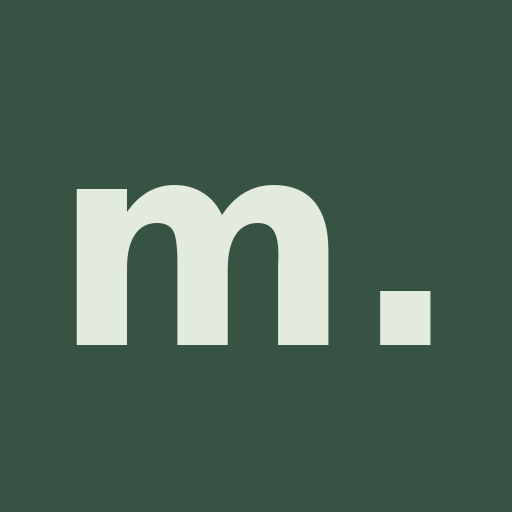
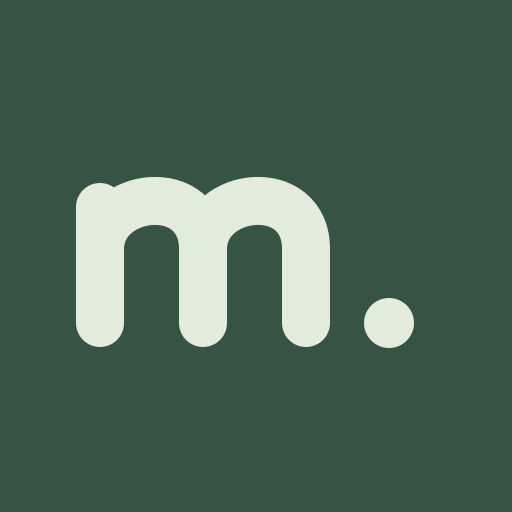
Add files via upload

diff --git a/index.html b/index.html
@@ -1,4 +1,4 @@
-<!doctype html><html lang="pt-BR"><meta charset="utf-8"><meta name="viewport" content="width=device-width,initial-scale=1,viewport-fit=cover"><meta name="theme-color" content="#365344"><meta name="apple-mobile-web-app-capable" content="yes"><link rel="apple-touch-icon" href="icon-192.png"><link rel="manifest" href="manifest.json"><title>Matcha</title><style>@import url('https://fonts.googleapis.com/css2?family=DM+Sans:wght@400;500;600;700&family=Nunito:wght@600;700;800&display=swap');
+<!doctype html><html lang="pt-BR"><meta charset="utf-8"><meta name="viewport" content="width=device-width,initial-scale=1,viewport-fit=cover"><meta name="theme-color" content="#365344"><meta name="apple-mobile-web-app-capable" content="yes"><link rel="apple-touch-icon" sizes="180x180" href="apple-touch-icon.png"><link rel="manifest" href="manifest.json"><title>matcha.</title><meta name="apple-mobile-web-app-title" content="Matcha"><meta name="application-name" content="Matcha"><link rel="icon" type="image/png" sizes="64x64" href="favicon.png"><style>@import url('https://fonts.googleapis.com/css2?family=DM+Sans:wght@400;500;600;700&family=Nunito:wght@600;700;800&display=swap');
 
 *{box-sizing:border-box}body{margin:0;background:#faf8f3;color:#263f32;font:600 16px system-ui,sans-serif}header,main{max-width:850px;margin:auto;padding:20px}header{display:flex;justify-content:space-between;align-items:center}h1{font-size:32px;margin:0;letter-spacing:-2px}h2{font-size:25px;margin:8px 0 16px}h3{margin:0 0 12px}small,p{font-weight:500}small{color:#627466}main{padding-bottom:110px}.card{background:white;border:1px solid #e0e5da;border-radius:22px;padding:20px;margin:12px 0}.hero{background:#365344;color:white;border:0}.hero small{color:#dce7d5}.grid{display:grid;grid-template-columns:repeat(2,minmax(0,1fr));gap:12px}.grid .card{margin:0;background:#e2ebdb}.big{font-size:32px;font-weight:800}button,input,select,textarea{font:inherit;border-radius:12px;padding:12px;border:1px solid #cdd8c9;max-width:100%}input,select,textarea{width:100%;background:#fff;color:#263f32;margin:5px 0 10px}button{background:#365344;color:white;border:0;cursor:pointer}button.light{background:#e2ebdb;color:#365344}button.danger{background:#f3e4df;color:#8a453b}button:active{opacity:.75}nav{position:fixed;bottom:0;left:0;right:0;background:#fff;border-top:1px solid #dae2d5;display:flex;justify-content:center;padding:8px 3px max(8px,env(safe-area-inset-bottom));z-index:10}nav button{background:white;color:#66776a;font-size:11px;flex:1;max-width:140px;padding:8px 2px}nav b{display:block;font-size:23px}nav .active{background:#e2ebdb;color:#365344}.line{display:flex;justify-content:space-between;align-items:center;gap:8px;padding:12px 0;border-bottom:1px solid #e9ece6}.line:last-child{border:0}.line input[type=checkbox]{width:23px;height:23px;accent-color:#365344;margin:0}.bar{height:10px;border-radius:10px;background:#cbd9c5;overflow:hidden;margin:12px 0}.bar i{display:block;height:100%;background:#8eae80;border-radius:10px}.muted{color:#647568}.row{display:flex;gap:8px;flex-wrap:wrap}.row>*{flex:1;min-width:90px}label{font-size:13px}details summary{cursor:pointer;font-weight:800} .pill{background:#e8d8c4;padding:6px 10px;border-radius:20px;font-size:12px;color:#4b5242}.day{display:inline-block;padding:8px;margin:3px;border-radius:12px;background:#e2ebdb}.done{text-decoration:line-through;opacity:.6}img.photo{width:100%;max-height:260px;object-fit:contain;border-radius:12px}svg{max-width:100%}
 header,main{max-width:none;margin:0;padding:24px 32px}main{padding-bottom:110px}.week{display:grid;grid-template-columns:repeat(7,minmax(0,1fr));gap:6px;margin:12px 0 20px}.week button{background:#e2ebdb;color:#365344;padding:10px 2px;min-width:0;font-size:12px}.week button strong{display:block;font-size:20px}.week button.active{background:#365344;color:white}.weekhead{display:flex;align-items:center;justify-content:space-between;gap:8px}.weekhead button{padding:8px 14px}.weekhead small{text-align:center}.sectiongrid{display:grid;gap:16px}.hero{min-height:150px}.grid .card{min-width:0}.big{overflow-wrap:anywhere}.day input{accent-color:#365344}.planrow{white-space:pre-wrap;overflow-wrap:anywhere} @media(min-width:850px){body{padding-left:235px}header{padding:30px 40px 10px}main{padding:20px 40px 40px}nav{top:0;bottom:0;right:auto;width:235px;flex-direction:column;justify-content:flex-start;gap:12px;padding:35px 16px;background:#365344;border:0}nav:before{content:'matcha.';color:white;font-size:32px;font-weight:850;padding:0 12px 28px}nav button{flex:none;max-width:none;text-align:left;color:#e2ebdb;background:transparent;font-size:16px;padding:14px;display:flex;align-items:center;gap:12px}nav b{font-size:24px}nav .active{background:#e2ebdb;color:#365344}.sectiongrid{grid-template-columns:repeat(2,minmax(0,1fr));align-items:start}.sectiongrid>.card{margin:0}.week button{font-size:15px}.week button strong{font-size:24px}}@media(max-width:849px){header,main{padding:16px}main{padding-bottom:110px}nav button{max-width:none}.grid .big{font-size:25px}.card{padding:16px}.week button{font-size:11px}.week button strong{font-size:17px}}
@@ -12,6 +12,9 @@ header,main{max-width:none;margin:0;padding:24px 32px}main{padding-bottom:110px}
 .v10top{display:grid;grid-template-columns:repeat(auto-fit,minmax(220px,1fr));gap:14px;margin:14px 0}.v10top .card{margin:0}.waterbox{display:flex;align-items:center;gap:18px;flex-wrap:wrap}.waterbox svg{width:105px;flex-shrink:0}.waterbox>div{flex:1;min-width:120px}.quickwater{display:grid;grid-template-columns:repeat(3,minmax(0,1fr));gap:8px;margin:12px 0}.quickwater button{padding:12px 4px}.goalcard{background:#e2ebdc;padding:16px;border-radius:15px;margin:12px 0}.v10actions{display:flex;gap:10px;flex-wrap:wrap}.v10actions button{flex:1}.v10icon{width:23px;height:23px;display:block;margin:auto auto 4px;fill:none;stroke:currentColor;stroke-width:1.8;stroke-linecap:round;stroke-linejoin:round}.card{overflow-wrap:anywhere}.card button{margin-top:5px}.card details{margin-top:12px}.card p{line-height:1.55}.card .line{gap:12px}.v10note{font-size:13px;color:#627466}.hero .v10note{color:#dce7d5}@media(max-width:600px){.grid{gap:12px}.card{padding:16px}.v10top{grid-template-columns:1fr}.waterbox{gap:12px}.trainhead{gap:12px;flex-wrap:wrap}.big{font-size:27px}main{padding-left:14px!important;padding-right:14px!important}nav button{font-size:10px!important}}
 
 body,input,select,textarea,button{font-family:'DM Sans',system-ui,sans-serif} h1,h2,h3,.big,nav:before{font-family:'Nunito',ui-rounded,system-ui,sans-serif;font-weight:800} button{font-weight:600} .matchhome{display:grid;gap:12px}.matchhome .card{margin:0;padding:15px;min-height:0}.matchhome h2,.matchhome h3{margin:0 0 6px}.matchhome p{margin:5px 0}.matchwater{display:flex;align-items:center;gap:14px;background:#e2ebdc!important}.matchwater svg{width:66px;height:105px;flex:none}.matchwater .waterinfo{flex:1;min-width:0}.matchwater .quickwater{margin:7px 0 0}.matchwater .quickwater button{font-size:12px;padding:9px 3px;margin:0}.matchtrain{background:#365344!important;color:#fff}.matchtrain small{color:#dce7d5}.matchtrain button{background:#e2ebdc;color:#365344;width:100%}.matchshort{display:grid;grid-template-columns:repeat(3,1fr);gap:12px}.matchshort button{background:transparent;color:#365344;padding:2px;display:grid;justify-items:center;gap:5px;font-size:12px}.matchshort i{display:grid;place-items:center;width:46px;height:46px;border-radius:50%;background:#e2ebdc}.matchshort svg,.search12 svg{width:23px;height:23px;fill:none;stroke:currentColor;stroke-width:1.8;stroke-linecap:round;stroke-linejoin:round}.matchsummary{display:grid;grid-template-columns:1fr 1fr;gap:14px;background:#e2ebdc!important}.matchsummary>div+div{border-left:1px solid #c4d2bd;padding-left:14px}.matchsummary .big{font-size:25px}.searchrow12{display:flex;align-items:center;gap:8px}.searchrow12 input{flex:1;min-width:0;margin:0}.search12{flex:none;width:44px;height:44px;padding:9px;margin:0!important;display:grid;place-items:center}.matchhome details{margin:4px 0 0}.matchhome details summary{font-size:12px;font-weight:600}.matchsub{display:flex;align-items:center;justify-content:space-between;gap:10px;margin-bottom:12px}.matchsub h2{margin:0}.card label{display:block;margin:10px 0}.card input,.card select,.card textarea{margin-top:5px}.card .row{gap:12px}.card button+button{margin-left:4px}.matchshort button+button{margin-left:0}@media(min-width:850px){.matchhome{grid-template-columns:1fr 1fr;gap:20px}.matchhome .matchdate,.matchhome .matchshort{grid-column:1/-1}.matchhome .matchwater,.matchhome .matchtrain{padding:24px}.matchhome .matchsummary{grid-column:1/-1}.matchwater svg{width:100px;height:150px}.matchshort{max-width:520px}.matchhome .big{font-size:32px}}@media(max-width:849px){body:not(.locked)>header{padding-bottom:5px}body:not(.locked)>header h1{font-size:29px;margin:0}body:not(.locked)>header small{display:none}main:has(.matchhome){padding-top:6px}.matchhome .matchdate{margin:0;font-size:12px}.matchhome .matchtrain h2{font-size:21px}.matchhome .matchtrain button{padding:9px}.matchhome .matchsummary .big{font-size:23px}nav{gap:3px}nav button{min-height:48px}#syncStatus{top:calc(3px + env(safe-area-inset-top));font-size:10px}} 
+
+.player17{max-width:620px;margin:0 auto;display:grid;gap:13px;color:#365344;font-family:'DM Sans',system-ui,sans-serif;letter-spacing:.2px}.player17 h2{font-family:Nunito,system-ui,sans-serif;margin:0;line-height:1.25}.p17heading,.p17top{display:flex;align-items:center;justify-content:space-between;gap:12px}.p17heading small{letter-spacing:1.3px;font-size:11px}.p17icon{display:grid;place-items:center;width:44px;height:44px;padding:10px!important}.p17icon svg,.p17sets svg,.p17controls svg{width:24px;height:24px}.p17more{position:relative}.p17more summary{list-style:none;font-size:25px;padding:5px 12px}.p17more[open]{z-index:5}.p17more button{display:block;margin:5px 0}.p17top span{background:#e2ebdc;padding:8px 13px;border-radius:12px;white-space:nowrap}.player17 .bar{margin:0;height:7px}.p17art{background:#e2ebdc;border-radius:24px;padding:15px;text-align:center;min-height:145px;display:grid;place-items:center;gap:6px}.p17art>svg{height:100px}.poses17{display:flex;justify-content:center;width:100%;gap:8px}.poses17 svg{width:45%;height:135px}.p17art small{font-size:10px}.p17name{text-align:center;font-size:25px}.p17stats{display:grid;grid-template-columns:repeat(3,minmax(0,1fr));gap:8px}.p17stats>div{background:#e2ebdc;padding:12px 6px;text-align:center;border-radius:14px;display:grid;gap:4px}.p17stats b{font-family:Nunito,system-ui;font-size:21px;overflow-wrap:anywhere}.p17stats small{font-size:11px}.p17sets{display:flex;justify-content:center;gap:10px;flex-wrap:wrap}.p17sets button{width:44px;height:44px;border-radius:50%;background:#dce8d6;color:#365344;display:grid;place-items:center;padding:0;font-weight:700}.p17sets button.complete{background:#365344;color:#fff}.p17sets button.running{outline:2px solid #80966b;outline-offset:3px}.p17edit{padding:9px 12px;background:#edf2e9;border-radius:12px;font-size:13px}.p17edit summary{font-weight:600}.p17control{background:#365344;border-radius:23px;padding:18px;display:grid;justify-items:center;gap:10px;color:#f8faf5}.p17control small{color:#dce8d6}.p17clock{font:800 32px Nunito,system-ui;letter-spacing:2px;font-variant-numeric:tabular-nums}.p17controls{display:flex;align-items:center;justify-content:center;gap:22px}.p17controls button{background:#587663;width:46px;height:46px;border-radius:50%;display:grid;place-items:center;padding:0;color:#fff}.p17controls button.p17play{width:66px;height:66px;background:#e2ebdc;color:#365344}.p17play svg{width:30px;height:30px}.p17controls button:disabled{opacity:.35}.p17finishset{background:#dce8d6;color:#365344;padding:10px 20px}.p17rest{display:flex;gap:6px;margin:10px 0;flex-wrap:wrap}.p17end,.resume17{width:100%;background:#365344;color:white}.p17result{background:#365344;color:white;padding:20px;border-radius:22px;margin-bottom:15px}.p17result>small{color:#dce8d6}.p17result .p17stats{color:#365344}.p17result h2{margin:8px 0 16px}@media(max-width:480px){.player17{gap:10px}.p17art{padding:10px}.poses17 svg{height:108px}.p17control{padding:14px}.p17stats>div{padding:9px 4px}.p17name{font-size:23px}}
+
 </style><style>.importentry13{margin:12px 0 18px}.import13{max-width:100%;display:grid;gap:14px}.import13 label{min-width:0}.import13 textarea{width:100%;resize:vertical}.importdays13,.importfields13{display:grid;grid-template-columns:repeat(auto-fit,minmax(78px,1fr));gap:8px}.importrow13{display:grid;gap:12px;padding:12px;border-radius:14px;background:#f0f3e9}.importpreview13{max-width:100%;max-height:380px;object-fit:contain;border-radius:12px}.import13 small{line-height:1.5}.import13 .full{margin-top:8px}.import13 .trainhead{gap:10px;flex-wrap:wrap}
 /* 13.1: ritmo tipográfico e espaçamento, sem alterar os registros */
 body{font-weight:500;line-height:1.55;letter-spacing:.012em;-webkit-text-size-adjust:100%;text-size-adjust:100%}
@@ -32,6 +35,20 @@ body{letter-spacing:.022em;line-height:1.55} h1,h2,h3,.big{letter-spacing:.012em
 /* Matcha 16: compact controls and consistent spacing */
 body{letter-spacing:.025em;line-height:1.6} h1,h2,h3{letter-spacing:.018em;line-height:1.3} p,small{overflow-wrap:anywhere} .card{border-radius:20px} .card h3{margin-bottom:12px} .card label{margin:12px 0;line-height:1.5} input,select,textarea,button{font-family:inherit;letter-spacing:.015em} .menu16{position:relative;margin:0;min-width:0} .menu16>summary{list-style:none;cursor:pointer;display:flex;align-items:center;justify-content:center;gap:8px;min-height:44px;padding:8px 14px;border-radius:12px;background:#365344;color:#faf8f3;font-weight:650} .menu16>summary::-webkit-details-marker{display:none}.menu16[open]>summary{margin-bottom:8px}.menu16body{display:grid;gap:8px;padding:12px;background:#f1f5ed;border:1px solid #d5e1cf;border-radius:14px}.menu16body>button{margin:0!important;text-align:left;width:100%;min-height:44px;background:#faf8f3;color:#365344}.menu16.mini16>summary{background:transparent;color:#365344;font-size:24px;min-width:44px;padding:0 10px;line-height:1}.menu16.mini16{align-self:flex-start}.menu16.mini16 .menu16body{min-width:150px}.trainhead{gap:14px;align-items:center;flex-wrap:wrap}.meal-line{padding:14px 0!important;line-height:1.55}.meal-line+.meal-line{border-top:1px solid #cbd8c4}.meal-line .actions,.fichas .trainactions{gap:10px;align-items:center}.meal-line .actions>button,.fichas .trainactions>button{margin:0}.meal-line .menu16body details{margin:0}.edit16grid{display:grid;grid-template-columns:repeat(2,minmax(0,1fr));gap:12px}.edit16grid label{margin:0}.edit16card{max-width:760px;margin:0 auto}.menu16body .danger{color:#80514a}.menu16body>details{margin:0}.menu16body>details>summary{padding:8px}.record16{display:flex;align-items:flex-start;gap:10px;justify-content:space-between}.record16>div:first-child{min-width:0;flex:1}.menu16body .card{padding:12px;margin:0}.menu16body .v10note{line-height:1.5}.menu16body button:disabled{opacity:.5}.card .menu16{margin-top:8px}.menu16body>button:hover{background:#dce8d5}.matchhome .matchshort button{letter-spacing:.025em}.nutri .meal-grid{gap:18px}.draftrow,.selected-food{margin:14px 0;padding:14px!important}.editor-grid{gap:18px}.weekblock15{padding:16px!important}.menu16body .light{border:1px solid #d4dfce}.menu16body button{white-space:normal}.matchhome .quickwater button{padding:8px 5px}.menu16 summary:focus-visible{outline:2px solid #80966b;outline-offset:2px}
 @media(max-width:849px){.trainhead{gap:10px}.trainhead h2{font-size:23px;flex:1}.trainhead .menu16>summary{font-size:13px;padding:8px 10px}.card{padding:16px}.menu16body{padding:10px}.edit16grid{gap:10px}.meal-line .actions{flex-wrap:wrap}.matchhome .card{padding:13px}.matchhome .matchtrain{padding:16px} .menu16body button{font-size:14px}.record16 .mini16{flex-shrink:0}}
+
+/* Matcha 18.2: shell mobile, barra fora da área de rolagem */
+@media(max-width:849px){
+ html:has(body:not(.locked)){height:100%;overflow:hidden;overscroll-behavior:none}
+ body:not(.locked){position:fixed;inset:0;display:grid;grid-template-rows:auto minmax(0,1fr) auto;height:100vh;height:100dvh;height:var(--matcha-viewport,100dvh);width:100%;overflow:hidden;overscroll-behavior:none;padding:0!important}
+ body:not(.locked)>header{grid-row:1;min-width:0;background:#faf8f3;padding-top:calc(8px + env(safe-area-inset-top));padding-bottom:8px;z-index:11}
+ body:not(.locked)>main#app{grid-row:2;min-height:0;min-width:0;overflow-y:auto;overflow-x:hidden;overscroll-behavior-y:contain;-webkit-overflow-scrolling:touch;padding-bottom:20px!important;scroll-padding:12px 0 24px}
+ body:not(.locked)>nav#nav{grid-row:3;position:relative;inset:auto;width:100%;height:auto;min-width:0;margin:0;flex-direction:row;align-items:center;padding:6px 4px calc(6px + env(safe-area-inset-bottom));background:#faf8f3;z-index:12;flex-shrink:0}
+ body:not(.locked)>nav#nav button{min-width:0;max-width:none;flex:1;padding:7px 2px;min-height:48px;background:transparent}
+ body:not(.locked)>nav#nav button.active{background:#e2ebdb}
+ body:not(.locked)>#syncStatus{position:absolute;top:auto;bottom:calc(var(--matcha-nav-height,70px) + 6px);right:10px;z-index:13}
+ .timercompact{bottom:8px}
+ body.locked{overflow:auto;position:static;height:auto;display:block}
+}
 </style><body class="locked"><section id="authGate"><div class="card"><small>SEU ESPAÇO DE EQUILÍBRIO</small><h1>matcha.</h1><h2 id="authTitle">Entrar</h2><form id="authForm"><label id="emailLabel">E-mail<input id="authEmail" type="email" autocomplete="email" required></label><label id="passLabel">Senha<input id="authPass" type="password" autocomplete="current-password" minlength="8" required></label><button id="authSubmit" type="submit">Entrar</button></form><button class="light" id="switchAuth" type="button">Criar conta</button><button class="light" id="forgotAuth" type="button">Esqueci minha senha</button><button class="light" id="reloadAuth" type="button" onclick="location.reload()" hidden>Tentar novamente</button><p id="authMsg" role="status" aria-live="polite">Conectando...</p></div></section><div id="syncStatus" role="status"></div><header><div><small>SEU ESPAÇO DE EQUILÍBRIO</small><h1>matcha.</h1></div><button class="light" onclick="go('perfil')" aria-label="Configurações"><svg viewBox="0 0 24 24"><circle cx="12" cy="12" r="3"/><path d="M12 2v3m0 14v3M2 12h3m14 0h3M5 5l2 2m10 10 2 2M5 19l2-2M17 7l2-2"/></svg></button></header><main id="app"></main><nav id="nav"></nav><script src="https://cdn.jsdelivr.net/npm/@supabase/supabase-js@2.49.4/dist/umd/supabase.js"></script><script>
 const $=id=>document.getElementById(id),today=()=>new Date().toLocaleDateString('sv-SE'),esc=s=>String(s??'').replace(/[&<>"']/g,c=>({'&':'&amp;','<':'&lt;','>':'&gt;','"':'&quot;',"'":'&#39;'}[c]));const blankState=()=>({meals:[],plans:[],workouts:[],logs:{},water:{},weights:[],photos:[],goals:{kcal:0,protein:0,water:2000},name:''});let S=blankState();let page='inicio',date=today(),selected='',timer=null;const days=['Domingo','Segunda','Terça','Quarta','Quinta','Sexta','Sábado'];function save(){cloudSave()}function go(p){page=p;if(p==='inicio'){date=today();selected=''}render()}function update(){save();render()}function val(id){return $(id).value}function num(id){return Number(val(id))||0}function uid(){return Date.now().toString(36)+Math.random().toString(36).slice(2,7)}function totals(){return S.meals.filter(x=>x.date===date).reduce((a,x)=>({kcal:a.kcal+x.kcal,p:a.p+x.p,c:a.c+x.c,g:a.g+x.g}),{kcal:0,p:0,c:0,g:0})}function bar(n,d){return `<div class="bar"><i style="width:${d?Math.min(100,n/d*100):0}%"></i></div>`}function dateField(){return `<input aria-label="Data" type="date" value="${date}" onchange="date=this.value||today();selected='';render()">`}function shiftDate(dt,n){let d=new Date(dt+'T12:00:00');d.setDate(d.getDate()+n);return d.toLocaleDateString('sv-SE')}function chooseDay(dt){date=dt;selected='';render()}function week(){let start=shiftDate(date,-((new Date(date+'T12:00:00').getDay()+6)%7));let end=shiftDate(start,6);return `<div class="weekhead"><button class="light" onclick="chooseDay(shiftDate(date,-7))">‹</button><small>${start.split('-').reverse().join('/')} a ${end.split('-').reverse().join('/')}</small><button class="light" onclick="chooseDay(shiftDate(date,7))">›</button></div><div class="week">${Array.from({length:7},(_,i)=>{let dt=shiftDate(start,i);return `<button class="${dt===date?'active':''}" onclick="chooseDay('${dt}')">${['Seg','Ter','Qua','Qui','Sex','Sáb','Dom'][i]}<strong>${Number(dt.slice(-2))}</strong>${dt===today()?'Hoje':''}</button>`}).join('')}</div>`}function workout(){return S.workouts.find(w=>w.id===selected)||S.workouts.find(w=>w.days.includes(new Date(date+'T12:00:00').getDay()))}function key(w){return date+'_'+w.id}function log(w){return S.logs[key(w)]||{checks:{},loads:{},finished:false}}function render(){let t=totals(),w=workout(),water=S.water[date]||0; $('nav').innerHTML=[['inicio','⌂','Início'],['nutricao','♧','Nutrição'],['treino','▤','Treino'],['cardio','♥','Cardio'],['evolucao','↗','Evolução']].map(([p,i,n])=>`<button class="${page===p?'active':''}" onclick="go('${p}')"><b>${i}</b>${n}</button>`).join('');let h='';if(page==='inicio')h=`<small>${new Date(date+'T12:00:00').toLocaleDateString('pt-BR',{weekday:'long',day:'numeric',month:'long'})}</small><h2>Olá${S.name?', '+esc(S.name):''}!</h2><div class="card hero"><small>RESUMO NUTRICIONAL</small><div class="big">${Math.round(t.kcal)} <small>kcal</small></div>${bar(t.kcal,S.goals.kcal)}<small>${S.goals.kcal?'Meta: '+S.goals.kcal+' kcal':'Meta opcional nas configurações'}</small><p>Proteínas ${t.p.toFixed(1)}g · Carboidratos ${t.c.toFixed(1)}g · Gorduras ${t.g.toFixed(1)}g</p><button class="light" onclick="go('nutricao');nopen()">Registrar refeição</button></div><div class="grid"><div class="card"><small>HIDRATAÇÃO</small><div class="big">${water} ml</div>${bar(water,S.goals.water)}<button onclick="addWater(250)">+ 250 ml</button><button class="light" onclick="addWater(-250)">−</button></div><div class="card"><small>TREINO DO DIA</small><h3>${w?esc(w.name):'Sem ficha prevista'}</h3><p>${w?(log(w).finished?'Concluído ✓':w.ex.length+' exercícios'):'Cadastre sua rotina'}</p><button onclick="go('treino')">Ver treino</button></div></div><div class="card"><h3>Seu ritmo, sua evolução</h3><p>Registre seus hábitos sem cobrança de perfeição.</p><button class="light" onclick="go('evolucao')">Acompanhar evolução</button></div>`;
 if(page==='nutricao')h=nutritionPage(t);
@@ -240,8 +257,8 @@ function saveGoal14(){let type=val('goaltype14'),target=Number(val('goaltarget14
 function actionGoal14(id,act){let x=goalsArray14().find(g=>g.id===id);if(!x)return;if(act==='pause')x.paused=!x.paused;if(act==='archive'){x.archived=!x.archived;x.paused=false}update()}
 function goalCard14(x){let m=metric14(x),unit=goalTypes10[x.type]||'unidades',fmt=v=>Number(v).toLocaleString('pt-BR',{maximumFractionDigits:1});return `<article class="card"><div class="goal14head"><h3>${esc(x.name||x.type)}</h3><small>${x.archived?'Arquivada':x.paused?'Pausada':period14(x)}</small></div><div class="big">${m.v===null?'—':fmt(m.v)} <small>/ ${fmt(x.target)} ${esc(unit)}</small></div>${m.p===null?'<p class="muted">Registre dados para acompanhar.</p>':bar(m.p,1)+`<small>${m.done?'Objetivo alcançado neste ciclo':Math.round(m.p*100)+'% do objetivo'}${m.partial?' · registro parcial':''}</small>`}${['Peso corporal','Medida da cintura'].includes(x.type)?`<p class="v10note">Referência inicial: ${x.start==null?'não registrada':fmt(x.start)+' '+unit}</p>`:''}${x.type==='Meta personalizada'&&!x.archived?`<label>Progresso manual<input type="number" min="0" step="any" value="${Number(x.manual)||0}" onchange="goalManual10('${esc(x.id)}',this.value)"></label>`:''}<details><summary>Opções da meta</summary><div class="goal14actions"><button class="light" onclick="openGoal14('${esc(x.id)}')">Editar</button>${!x.archived?`<button class="light" onclick="actionGoal14('${esc(x.id)}','pause')">${x.paused?'Retomar':'Pausar'}</button>`:''}<button class="light" onclick="actionGoal14('${esc(x.id)}','archive')">${x.archived?'Restaurar':'Arquivar'}</button></div>${Object.values(x.achievements14||{}).length?`<p>Conquistas registradas: ${Object.values(x.achievements14).length}</p>${Object.values(x.achievements14).slice(-8).reverse().map(a=>`<small>${esc(a.date.split('-').reverse().join('/'))} · ${fmt(a.value)} ${esc(unit)}</small><br>`).join('')}`:''}</details></article>`}
 goals10=function(){let all=goalsArray14(),active=all.filter(x=>!x.archived),arch=all.filter(x=>x.archived),x=all.find(x=>x.id===edit14);return `<p class="muted">Objetivos conectados aos seus registros. Acompanhe seu ritmo, sem cobranças.</p>${form14?`<section class="card goal14form"><h3>${x?'Editar objetivo':'Novo objetivo'}</h3><label>Categoria<select id="goaltype14">${Object.keys(goalTypes10).map(t=>`<option ${x?.type===t?'selected':''}>${esc(t)}</option>`).join('')}</select></label><label>Nome opcional<input id="goalname14" value="${esc(x?.name||'')}"></label><label>Objetivo numérico<input id="goaltarget14" inputmode="decimal" value="${esc(x?.target??'')}"></label><small>Use kg para peso, cm para cintura, ml para água, g para proteína, minutos para cardio e horas para sono. Ao mudar o objetivo, inicia-se uma nova referência.</small><div class="row"><button onclick="saveGoal14()">Salvar meta</button><button class="light" onclick="closeGoal14()">Cancelar</button></div></section>`:`<button onclick="openGoal14()">+ Nova meta</button>`}<div class="goal14grid" style="margin-top:16px">${active.map(goalCard14).join('')||'<p>Nenhuma meta ativa. Crie seu primeiro objetivo.</p>'}</div>${arch.length?`<details class="card"><summary>Metas arquivadas (${arch.length})</summary><div class="goal14grid">${arch.map(goalCard14).join('')}</div></details>`:''}`};
-let renderBase14=render;render=function(){renderBase14();document.body.dataset.page=page;if(page==='perfil'){let b=[...$('app').querySelectorAll('button')].find(b=>b.textContent.includes('Verificar atualização'));if(b)b.onclick=refresh14;$('app').insertAdjacentHTML('afterbegin','<p class="version14">MATCHA · VERSÃO 16.0</p>')} };
-let goBase14=go;go=function(p){if(p!=='metas12'){form14=false;edit14=null}goBase14(p);window.scrollTo(0,0)};
+let renderBase14=render;render=function(){renderBase14();document.body.dataset.page=page;if(page==='perfil'){let b=[...$('app').querySelectorAll('button')].find(b=>b.textContent.includes('Verificar atualização'));if(b)b.onclick=refresh14;$('app').insertAdjacentHTML('afterbegin','<p class="version14">MATCHA · VERSÃO 18.2</p>')} };
+let goBase14=go;go=function(p){if(p!=='metas12'){form14=false;edit14=null}goBase14(p);window.scrollTo(0,0);document.getElementById("app")?.scrollTo(0,0)};
 async function refresh14(){if(writing||pending){alert('Aguarde a sincronização antes de atualizar.');return}try{let r=await navigator.serviceWorker?.getRegistration();await r?.update();}catch{}location.reload()}
 let ctrl14=false;if('serviceWorker' in navigator){navigator.serviceWorker.addEventListener('controllerchange',()=>{if(ctrl14)return;ctrl14=true;if(!writing&&!pending)location.reload();else statusText('Atualização disponível · abra Configurações após sincronizar')})}
 
@@ -279,6 +296,44 @@ if(page==='cardio'){for(let line of app.querySelectorAll('.line')){let b=line.qu
 if(page==='evolucao'){for(let line of app.querySelectorAll('.line')){let b=line.querySelector('button.danger');if(b)actionMenu16(line,[b])}let w=app.querySelector('.compactevo');if(w){let records=[...w.children].filter(d=>['Peso e medidas','Fotos corporais'].includes(d.querySelector('summary')?.textContent));if(records.length){let d=menu16('Novo registro',records);w.prepend(d)}}}
 if(page==='perfil'){let card=[...app.querySelectorAll('.card')].find(c=>c.querySelector('h3')?.textContent==='Seus dados');if(card){let b=[...card.querySelectorAll('button')];let groups=[['Sincronização e atualização',b.filter(x=>/Sincronizar|Verificar/.test(x.textContent))],['Backup e importação',b.filter(x=>/backup|Importar/i.test(x.textContent))],['Conta',b.filter(x=>/Sair/.test(x.textContent))]];for(let [n,bs] of groups)if(bs.length){let d=menu16(n,bs);card.append(d);if(n==='Backup e importação'){let file=card.querySelector('input[type=file]');if(file){let l=document.createElement('label');l.textContent='Restaurar backup (substitui registros atuais)';l.append(file);d.querySelector('.menu16body').append(l);for(let p of card.querySelectorAll(':scope > p'))if(p.textContent.startsWith('Restaurar backup'))p.remove()}}}}}
 };
+
+// Matcha 17 — session player
+if(!exerciseCatalog['Glúteos e posteriores'].includes('Levantamento terra sumô'))exerciseCatalog['Glúteos e posteriores'].push('Levantamento terra sumô');
+const p17={play:'<path d="M8 5v14l12-7z" fill="currentColor" stroke="none"/>',pause:'<path d="M9 5v14M15 5v14" stroke-width="4"/>',prev:'<path d="M6 5v14M19 5 9 12l10 7z"/>',next:'<path d="M18 5v14M5 5l10 7-10 7z"/>',reset:'<path d="M4 11a8 8 0 1 1 2 6M4 4v7h7"/>',check:'<path d="m5 12 4 4L19 6"/>',back:'<path d="m15 5-7 7 7 7"/>'};
+function glyph17(k){return `<svg viewBox="0 0 24 24" fill="none" stroke="currentColor" stroke-width="2" stroke-linecap="round" stroke-linejoin="round" aria-hidden="true">${p17[k]}</svg>`}
+function art17(name){
+let n=norm13(name),kind=/sumo/.test(n)?'sumo':/bulgar/.test(n)?'split':/agach/.test(n)?'squat':/stiff|terra romeno|levantamento terra/.test(n)?'hinge':/elevacao pelvica/.test(n)?'hip':/rosca direta|rosca martelo/.test(n)?'curl':/elevacao lateral/.test(n)?'lateral':null;
+if(!kind)return '<div class="noart18">'+icon12('dumbbell')+'<small>Ilustração específica ainda indisponível</small></div>';
+// joints: shoulder, hip, knee, ankle, elbow, hand; paired poses drawn as flat human figures.
+let poses={squat:[[80,49,80,93,82,130,82,164,58,75,55,53],[87,65,64,111,105,122,87,164,65,90,62,68]],sumo:[[80,70,80,111,122,128,139,164,86,108,86,148],[80,43,80,91,119,126,139,164,86,80,86,108]],split:[[84,48,83,91,116,125,117,164,70,85,70,113],[84,77,83,118,118,124,117,164,70,113,70,143]],hinge:[[80,48,80,91,82,129,82,164,91,79,91,110],[130,85,68,100,82,131,82,164,132,112,132,150]],hip:[[48,105,90,133,132,111,145,164,78,122,91,133],[48,105,94,106,132,111,145,164,78,99,94,106]],curl:[[80,48,80,91,82,129,82,164,86,90,86,124],[80,48,80,91,82,129,82,164,86,90,111,64]],lateral:[[80,48,80,91,82,129,82,164,96,84,99,119],[80,48,80,91,82,129,82,164,116,51,151,51]]};
+function pose(v){let [x,y,h,j,k,l,f,g,e,b,w,z]=v;let dx=h-x,dy=j-y,len=Math.hypot(dx,dy)||1,px=-dy/len,py=dx/len;let poly=(a,c,r)=>`${a+px*r},${c+py*r} ${a-px*r},${c-py*r}`;let torso=`${poly(x,y,13)} ${h-px*12},${j-py*12} ${h+px*12},${j+py*12}`;let line=(d,c,width)=>`<path d="${d}" stroke="${c}" stroke-width="${width}" fill="none" stroke-linejoin="round" stroke-linecap="round"/>`;let leg=(K,L,F,G,c)=>line(`M${h} ${j} Q${K} ${L-10} ${K} ${L} L${F} ${G}`,c,17)+line(`M${F-3} ${G+3}h17`,'#f6f3e9',10)+line(`M${F-5} ${G+8}h22`,'#365344',2);let back=kind==='sumo'?leg(160-k,l,160-f,g,'#78936f'):kind==='split'?leg(51,133,30,113,'#78936f'):leg(k-8,l,f-9,g,'#78936f');let barY=kind==='squat'?y+3:z;let equipment=['squat','sumo','hinge','hip'].includes(kind)?`<g stroke="#365344" stroke-width="2"><path d="M${(kind==='squat'?x:w)-41} ${barY}h82" stroke-width="4"/><rect x="${(kind==='squat'?x:w)-40}" y="${barY-13}" width="12" height="26" rx="4" fill="#526a50"/><rect x="${(kind==='squat'?x:w)+28}" y="${barY-13}" width="12" height="26" rx="4" fill="#526a50"/></g>`:`<rect x="${w-10}" y="${z-5}" width="20" height="10" rx="4" fill="#365344"/>`;return `<svg viewBox="0 0 180 184" role="img" aria-label="Posição ilustrativa"><path d="M12 174H168" stroke="#d5dfce" stroke-width="2"/>${kind==='split'||kind==='hip'?'<rect x="15" y="106" width="45" height="8" rx="3" fill="#a8b99d"/><path d="M20 114v56m35-56v56" stroke="#80966b" stroke-width="3"/>':''}${back}${leg(k,l,f,g,'#526e52')}<polygon points="${torso}" fill="#a6bb91" stroke="#365344" stroke-width="1.5"/><ellipse cx="${h}" cy="${j}" rx="13" ry="10" fill="#526e52"/>${line(`M${x} ${y+4} L${e} ${b} L${w} ${z}`,'#b99d82',10)}<circle cx="${x}" cy="${y-18}" r="12" fill="#b99d82" stroke="#665d4d" stroke-width="1"/><path d="M${x-11} ${y-18}q-3-17 12-14q14 1 12 15l-6-8q-6 7-18 7" fill="#464e40"/><circle cx="${x-12}" cy="${y-30}" r="6" fill="#464e40"/>${equipment}</svg>`}return `<div class="poses17">${poses[kind].map(pose).join('')}</div><small>Início e final · ilustração de referência</small>`}
+function weight18(i,v,commit=false){let e=session?.ex[session.idx],x=e?.sets[i];if(!x||x.done)return;let n=Number(v);if(!Number.isFinite(n)||n<0)return;x.load=String(n);let out=$('weight18value');if(out)out.textContent=n.toLocaleString('pt-BR')+' kg';let range=$('weight18range');if(range)range.value=n;if(commit){for(let j=i+1;j<e.sets.length;j++)if(!e.sets[j].done)e.sets[j].load=String(n);persistSession()}}
+function adjust18(i,d){let x=session.ex[session.idx].sets[i];weight18(i,Math.max(0,(Number(x.load)||0)+d),true)}
+function reps18(i,d){let x=session.ex[session.idx].sets[i];if(x.done)return;x.reps=String(Math.max(1,(Number(x.reps)||1)+d));persistSession();render()}
+function activeSeconds17(a){return Math.max(0,((a.pausedAt||Date.now())-a.start-(a.pausedTotal||0))/1000)}
+function setSeconds17(a){return a.active?((a.active.elapsed||0)+(a.active.start?Date.now()-a.active.start:0))/1000:0}
+function pause17(){let a=session;if(!a)return;if(a.pausedAt){let delta=Date.now()-a.pausedAt;a.pausedTotal=(a.pausedTotal||0)+delta;if(a.restUntil)a.restUntil+=delta;if(a.active)a.active.start=Date.now();a.pausedAt=0}else{a.pausedAt=Date.now();if(a.active){a.active.elapsed=(a.active.elapsed||0)+(a.active.start?Date.now()-a.active.start:0);a.active.start=0}}persistSession();render()}
+function play17(){let a=session;if(a.pausedAt)return pause17();if(a.active)return pause17();if(a.restUntil>Date.now()){a.restUntil=0;persistSession();render();return}let i=a.ex[a.idx].sets.findIndex(s=>!s.done);if(i<0){if(a.idx<a.ex.length-1)sessionMove(a.idx+1);return}sessionStart(i)}
+function toggleSet17(i){let a=session,s=a.ex[a.idx].sets[i];if(s.done){if(!confirm('Desmarcar esta série?'))return;s.done=false;s.seconds=0;persistSession();render();return}if(a.active&&a.active.i!==i)return alert('Conclua a série em execução primeiro.');sessionDone(i)}
+sessionDone=function(i){let a=session,s=a.ex[a.idx].sets[i];if((s.load!==''&&(!Number.isFinite(Number(s.load))||Number(s.load)<0))||!Number.isFinite(Number(s.reps))||Number(s.reps)<1)return alert('Confira carga e repetições.');s.seconds=a.active?.i===i?Math.round(setSeconds17(a)):0;s.done=true;if(a.pausedAt){a.pausedTotal=(a.pausedTotal||0)+Date.now()-a.pausedAt;a.pausedAt=0}a.active=null;a.restUntil=Date.now()+a.rest*1000;persistSession();render()};
+sessionMove=function(n){let a=session;if(n<0||n>=a.ex.length)return;if(a.active&&!confirm('Trocar exercício sem concluir a série atual?'))return;if(a.pausedAt){a.pausedTotal=(a.pausedTotal||0)+Date.now()-a.pausedAt;a.pausedAt=0}a.active=null;a.idx=n;a.restUntil=0;persistSession();render()};
+function reset17(){if(!confirm('Reiniciar a sessão? As séries desta sessão serão desmarcadas.'))return;let a=session;a.start=Date.now();a.pausedAt=0;a.pausedTotal=0;a.active=null;a.restUntil=0;a.idx=0;a.ex.forEach(e=>e.sets.forEach(s=>{s.done=false;s.seconds=0}));persistSession();render()}
+sessionTick=function(){if(!session)return;let a=session,now=a.pausedAt||Date.now();if($('sessionClock'))$('sessionClock').textContent=fmtTime(activeSeconds17(a));if($('setClock'))$('setClock').textContent=a.active?fmtTime(setSeconds17(a)):a.restUntil?fmtTime(Math.ceil((a.restUntil-now)/1000)):'00:00';if(!a.pausedAt&&a.restUntil&&Date.now()>=a.restUntil){a.restUntil=0;persistSession();if(page==='sessao')render()}};setInterval(sessionTick,250);
+sessionPage=function(){if(!session)return '<div class="card">Nenhuma sessão ativa.</div>';let a=session,e=a.ex[a.idx],done=a.ex.flatMap(x=>x.sets).filter(s=>s.done).length,total=a.ex.flatMap(x=>x.sets).length,i=a.active?.i??e.sets.findIndex(s=>!s.done),s=e.sets[Math.max(0,i)],rest=a.restUntil>(a.pausedAt||Date.now()),label=a.pausedAt?'Sessão pausada':a.active?'Série em andamento':rest?'Descanso entre séries':i<0?'Exercício concluído':'Pronto para iniciar';return `<div class="player17"><div class="p17heading"><button class="light p17icon" aria-label="Voltar" onclick="go('treino')">${glyph17('back')}</button><small>SESSÃO DE TREINO</small><details class="p17more"><summary aria-label="Mais opções">···</summary><button class="light" onclick="reset17()">Reiniciar sessão</button><button class="light" onclick="if(confirm('Descartar sessão ativa?')){session=null;persistSession();go('treino')}">Descartar sessão</button></details></div><div class="p17top"><div><small>MINHA FICHA</small><h2>${esc(a.name)}</h2></div><span>${a.idx+1} de ${a.ex.length}</span></div>${bar(done,total)}<div class="p17art">${art17(e.name)}</div><h2 class="p17name">${esc(e.name)}</h2><div class="p17stats"><div><small>Séries</small><b>${e.sets.length}</b></div><div><small>Repetições</small><b>${esc(s.reps||'—')}</b></div><div><small>Carga</small><b>${s.load===''?'—':esc(s.load)+' kg'}</b></div></div><div class="p17sets">${e.sets.map((x,j)=>`<button class="${x.done?'complete':''} ${a.active?.i===j?'running':''}" aria-label="${x.done?'Desmarcar':'Concluir'} série ${j+1}" aria-pressed="${!!x.done}" onclick="toggleSet17(${j})">${x.done?glyph17('check')+'<small>'+esc(x.load||'—')+' kg</small>':j+1}</button>`).join('')}</div>${i>=0?`<div class="weight18"><small>Carga da série ${i+1}</small><div class="weightrow18"><button class="light" aria-label="Diminuir carga" onclick="adjust18(${i},-2.5)">−</button><b id="weight18value">${s.load===''?'—':esc(s.load)+' kg'}</b><button class="light" aria-label="Aumentar carga" onclick="adjust18(${i},2.5)">+</button></div><input id="weight18range" aria-label="Carga em kg" type="range" min="0" max="${Math.max(200,Math.ceil((Number(s.load)||0)/50)*50+50)}" step="0.5" value="${Number(s.load)||0}" oninput="weight18(${i},this.value)" onchange="weight18(${i},this.value,true)"><div class="weightrow18"><small>Repetições: ${esc(s.reps)}</small><button class="light" onclick="reps18(${i},-1)">−</button><button class="light" onclick="reps18(${i},1)">+</button></div></div>`:''}<details class="p17edit"><summary>Editar todas as séries</summary>${e.sets.map((x,j)=>`<div class="row"><label>Série ${j+1} · kg<input type="number" min="0" step=".25" value="${esc(x.load)}" onchange="sessionSet(${j},'load',this.value)"></label><label>Repetições<input type="number" min="1" value="${esc(x.reps)}" onchange="sessionSet(${j},'reps',this.value)"></label></div>`).join('')}</details><section class="p17control"><small>${label}</small><div class="p17clock" id="setClock">00:00</div><div class="p17controls"><button aria-label="Anterior" ${a.idx===0?'disabled':''} onclick="sessionMove(${a.idx-1})">${glyph17('prev')}</button><button class="p17play" aria-label="${a.active&&!a.pausedAt?'Pausar':'Iniciar ou retomar'}" onclick="play17()">${glyph17(a.active&&!a.pausedAt?'pause':'play')}</button><button aria-label="Próximo" ${a.idx===a.ex.length-1?'disabled':''} onclick="sessionMove(${a.idx+1})">${glyph17('next')}</button></div><small>Tempo da sessão · <span id="sessionClock">${fmtTime(activeSeconds17(a))}</span></small>${a.active?`<button class="p17finishset" onclick="sessionDone(${a.active.i})">Concluir série ${a.active.i+1}</button>`:rest?'<button class="p17finishset" onclick="play17()">Pular descanso</button>':i<0?'<small>Todas as séries deste exercício registradas</small>':''}</section><details class="p17edit"><summary>Descanso e observações</summary><div class="p17rest">${[30,60,90,120].map(n=>`<button class="${a.rest===n?'':'light'}" onclick="session.rest=${n};persistSession();render()">${n}s</button>`).join('')}</div><textarea placeholder="Observações do treino" onchange="session.notes=this.value;persistSession()">${esc(a.notes||'')}</textarea></details><button class="p17end" onclick="endSession()">Finalizar treino</button></div>`};
+// Replace finalization while preserving the existing history schema.
+endSession=function(){let a=session;if(a.active)return alert('Conclua a série atual antes de finalizar.');if(!a.ex.some(e=>e.sets.some(s=>s.done)))return alert('Registre pelo menos uma série.');if(a.ex.some(e=>e.sets.some(s=>!s.done))&&!confirm('Salvar sessão com séries pendentes?'))return;a.duration=Math.round(activeSeconds17(a));S.sessions=S.sessions||[];S.sessions.push(a);S.logs[a.date+'_'+a.workoutId]={checks:Object.fromEntries(a.ex.map(e=>[e.id,e.sets.every(s=>s.done)])),loads:Object.fromEntries(a.ex.map(e=>[e.id,e.sets.filter(s=>s.done).at(-1)?.load??''])),finished:true};session=null;persistSession();page='resumo';render()};
+let before17=render;render=function(){before17();let app=$('app');if(!app)return;if(page==='inicio'){let b=app.querySelector('.matchtrain button'),w=S.workouts.find(x=>x.days.includes(new Date(today()+'T12:00:00').getDay()));if(b&&(session||w)){b.textContent=session?'Retomar sessão':'Iniciar treino';b.onclick=()=>session?go('sessao'):startSession(w.id)}}if(page==='treino'&&session&&!draft&&!import13){let b=document.createElement('button');b.className='resume17';b.textContent='Retomar sessão de treino';b.onclick=()=>go('sessao');app.prepend(b)}if(page==='resumo'&&histories().length){let a=histories().at(-1),ss=a.ex.flatMap(e=>e.sets).filter(s=>s.done),v=ss.reduce((t,s)=>t+(Number(s.load)||0)*(Number(s.reps)||0),0);app.insertAdjacentHTML('afterbegin',`<section class="p17result"><small>SESSÃO SALVA</small><h2>Treino concluído</h2><div class="p17stats"><div><small>Duração</small><b>${fmtTime(a.duration)}</b></div><div><small>Séries</small><b>${ss.length}</b></div><div><small>Volume registrado</small><b>${v.toLocaleString('pt-BR')} kg</b></div></div></section>`)}};
+
+
+// Keep the shell aligned with the visible viewport, including iOS keyboard changes.
+(function(){
+ const mobile=matchMedia('(max-width:849px)');
+ const update=()=>{
+  if(mobile.matches){document.documentElement.style.setProperty('--matcha-viewport',Math.round(window.visualViewport?.height||window.innerHeight)+'px');const n=document.getElementById('nav');if(n&&n.offsetHeight)document.documentElement.style.setProperty('--matcha-nav-height',n.offsetHeight+'px');}
+  else document.documentElement.style.removeProperty('--matcha-viewport');
+ };
+ window.addEventListener('resize',update,{passive:true});window.visualViewport?.addEventListener('resize',update,{passive:true});window.addEventListener('pageshow',update);mobile.addEventListener?.('change',update);if(window.ResizeObserver){new ResizeObserver(update).observe(document.getElementById('nav'));}update();
+})();
 
 initCloud();
 

diff --git a/sw.js b/sw.js
@@ -1,1 +1,1 @@
-const C='wellness-v16.0';self.addEventListener('install',e=>e.waitUntil(caches.open(C).then(c=>c.addAll(['./','index.html','manifest.json','icon-192.png','icon-512.png'].map(u=>new Request(u,{cache:'reload'})))).then(()=>self.skipWaiting())));self.addEventListener('activate',e=>e.waitUntil(caches.keys().then(ks=>Promise.all(ks.filter(k=>k.startsWith('wellness-')&&k!==C).map(k=>caches.delete(k)))).then(()=>self.clients.claim())));self.addEventListener('fetch',e=>{if(e.request.method!=='GET'||new URL(e.request.url).origin!==location.origin)return;if(e.request.mode==='navigate'){e.respondWith(fetch(e.request,{cache:'no-store'}).then(r=>{if(r.ok){let copy=r.clone();e.waitUntil(caches.open(C).then(c=>c.put('index.html',copy)))}return r}).catch(async()=>await caches.match('index.html')||Response.error()));return}e.respondWith(fetch(e.request,{cache:'no-cache'}).catch(async()=>await caches.match(e.request)||Response.error()))});
+const C='wellness-v18.2';self.addEventListener('install',e=>e.waitUntil(caches.open(C).then(c=>c.addAll(['./','index.html','manifest.json','icon-192.png','icon-512.png','apple-touch-icon.png','favicon.png'].map(u=>new Request(u,{cache:'reload'})))).then(()=>self.skipWaiting())));self.addEventListener('activate',e=>e.waitUntil(caches.keys().then(ks=>Promise.all(ks.filter(k=>k.startsWith('wellness-')&&k!==C).map(k=>caches.delete(k)))).then(()=>self.clients.claim())));self.addEventListener('fetch',e=>{if(e.request.method!=='GET'||new URL(e.request.url).origin!==location.origin)return;if(e.request.mode==='navigate'){e.respondWith(fetch(e.request,{cache:'no-store'}).then(r=>{if(r.ok){let copy=r.clone();e.waitUntil(caches.open(C).then(c=>c.put('index.html',copy)))}return r}).catch(async()=>await caches.match('index.html')||Response.error()));return}e.respondWith(fetch(e.request,{cache:'no-cache'}).catch(async()=>await caches.match(e.request)||Response.error()))});
